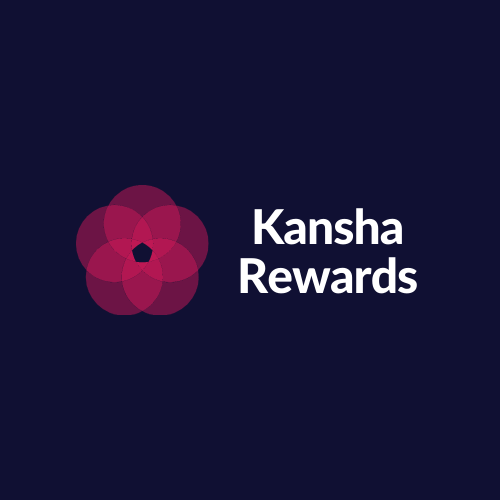
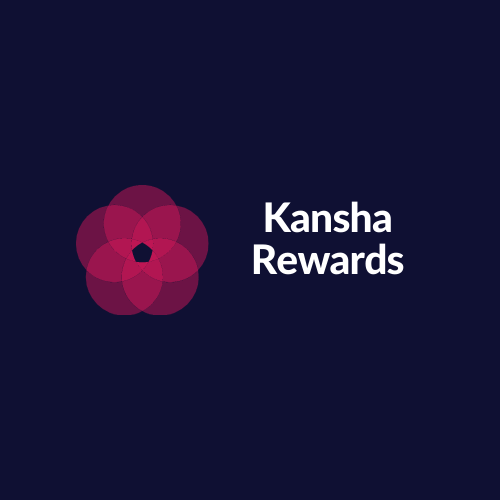
fonts change

Changed region(s): [[0.48, 0.39, 0.84, 0.6]]

diff --git a/assets/css/main.css b/assets/css/main.css
@@ -1,6 +1,15 @@
 @import url(font-awesome.min.css);
 @import url("https://fonts.googleapis.com/css?family=Source+Sans+Pro:300,300i,400,400i");
 
+@font-face {
+    font-family: 'toledo_serial-regular';
+    src: url('toledo_serial-regular-webfont.woff2') format('woff2'),
+         url('toledo_serial-regular-webfont.woff') format('woff');
+    font-weight: normal;
+    font-style: normal;
+}
+
+
 /*
 	Story by HTML5 UP
 	html5up.net | @ajlkn
@@ -192,9 +201,10 @@ input, select, textarea {
 		}
 
 	h1, h2, h3, h4, h5, h6 {
-		font-weight: 300;
+		font-family: 'toledo_serial-regular';
+		font-weight: 700;
 		line-height: 1.375;
-		letter-spacing: -0.05em;
+		letter-spacing: 0.1rem;
 		margin: 0 0 1rem 0;
 	}
 
@@ -206,7 +216,6 @@ input, select, textarea {
 	h1 {
 		font-size: 3.5rem;
 		line-height: 1.2;
-		font-family: 'Carme', sans-serif;
 	}
 
 	h2 {
